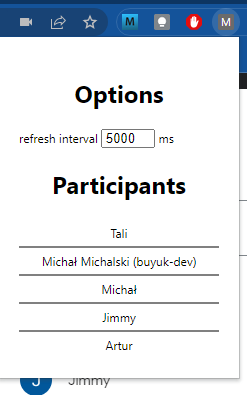
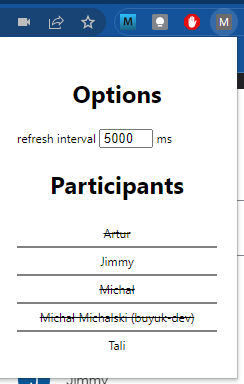
Update readme;

diff --git a/README.md b/README.md
@@ -1,6 +1,19 @@
 # Meet Sorter
+
 Chrome extension for sorting participants on the Google Meet meeting.
 100% vegan.
 
+## Main participants list
+
+1. Clicking participant name will check it (greyed out names).
+2. Participants sorted in alphabetical order.
+
 ![tick-participants](tick.png)
+
+
+## Extension popup
+
+1. Option to configure refresh interval.
+2. List of participants (checked ones are striked-through).
+
 ![settings](settings.png)
